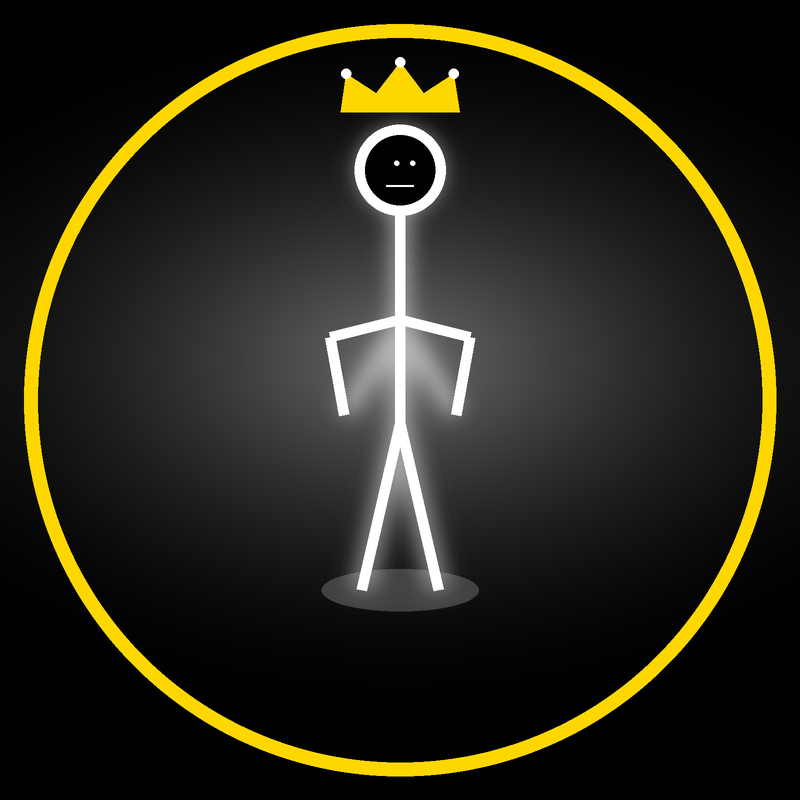
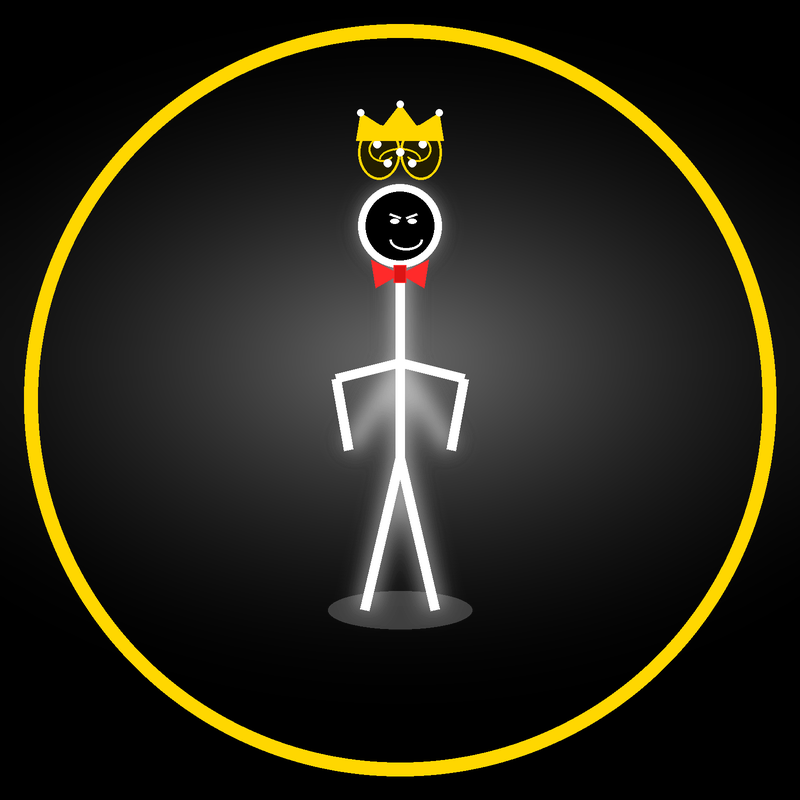
feat(mascot): incorpora especificações oficiais do Sr. Palito (Mr. Stick)

Changed region(s): [[0.4062, 0.0625, 0.5938, 0.8125]]

diff --git a/src/stickman_renderer.py b/src/stickman_renderer.py
@@ -55,12 +55,13 @@ class Fig:
     y: float  # Ground/feet y coordinate
     scale: float = 1.0
     pose: str = "confident"  # confident, slouched, shouting, thinking, pointing, arms_wide, offer_left, cross, walking
-    expression: str = "calm"  # smile, fake_smile, smirk, angry, worried, calm, neutral
+    expression: str = "smirk"  # smile, fake_smile, smirk, angry, worried, calm, neutral
     color: Tuple[int, int, int] = COLOR_WHITE
     glow_color: Optional[Tuple[int, int, int, int]] = (255, 255, 255, 90)
     facing: int = 1  # 1: right, -1: left
-    head_accessory: Optional[str] = None  # e.g. "crown"
+    head_accessory: Optional[str] = None  # e.g. "crown", "brain"
     body_accessory: Optional[str] = None  # e.g. "xmark", "scissors", "mirror", "phone", "lightning_eye"
+    is_sr_palito: bool = False  # Mascote oficial Sr. Palito (Mr. Stick)
 
 @dataclass
 class Accessory:
@@ -314,15 +315,29 @@ class StickmanRenderer:
             draw_fig.line([chest_x, chest_y, left_hand[0], left_hand[1]], fill=c, width=stroke_w)
             draw_fig.line([chest_x, chest_y, right_hand[0], right_hand[1]], fill=c, width=stroke_w)
 
-        # Head (filled black with thick glowing stroke)
-        draw_fig.ellipse([head_x - head_r, head_y - head_r, head_x + head_r, head_y + head_r], fill=(0, 0, 0, 255), outline=c, width=stroke_w)
-        
-        # Expressive face
-        self.draw_face(draw_fig, head_x, head_y, head_r, fig.expression, f, c)
-
-        # Head Accessory (e.g. Floating Crown)
-        if fig.head_accessory == "crown":
-            self.draw_crown(draw_fig, head_x, head_y - head_r - 18 * scale, scale)
+        # Head (solid white head with sleek black inner facial area for Sr. Palito, or thick stroke outline)
+        if fig.is_sr_palito:
+            # 1. Perfectly round solid white head
+            draw_fig.ellipse([head_x - head_r, head_y - head_r, head_x + head_r, head_y + head_r], fill=(255, 255, 255, 255))
+            # 2. Sleek black facial area inside
+            inner_r = head_r * 0.82
+            draw_fig.ellipse([head_x - inner_r, head_y - inner_r, head_x + inner_r, head_y + inner_r], fill=(0, 0, 0, 255))
+            # 3. Sr. Palito face: intensely expressive glowing white eyes, sharp mischievous eyebrows, calculating smirk
+            self.draw_sr_palito_face(draw_fig, head_x, head_y, head_r, f)
+            # 4. Razor-sharp crimson red bow tie (#FF2A2A) at neck
+            self.draw_bow_tie(draw_fig, neck_x, neck_y + 4 * scale, scale)
+            # 5. Magnificent holographic golden brain (#FFD700) with crown floating directly above head
+            brain_cy = head_y - head_r - 20 * scale
+            self.draw_golden_brain(draw_fig, head_x, brain_cy, scale)
+            self.draw_crown(draw_fig, head_x, brain_cy - 16 * scale, scale * 0.8)
+        else:
+            # Standard stickman head (filled black with thick glowing stroke)
+            draw_fig.ellipse([head_x - head_r, head_y - head_r, head_x + head_r, head_y + head_r], fill=(0, 0, 0, 255), outline=c, width=stroke_w)
+            # Expressive face
+            self.draw_face(draw_fig, head_x, head_y, head_r, fig.expression, f, c)
+            # Head Accessory (e.g. Floating Crown)
+            if fig.head_accessory == "crown":
+                self.draw_crown(draw_fig, head_x, head_y - head_r - 18 * scale, scale)
 
         # Body Accessory
         if fig.body_accessory == "xmark":
@@ -340,6 +355,60 @@ class StickmanRenderer:
             self.draw_lightning_eye(draw_fig, head_x, head_y, f, scale)
 
         img.paste(fig_layer, (0, 0), fig_layer)
+
+    def draw_sr_palito_face(self, draw: ImageDraw.ImageDraw, hx: float, hy: float, hr: float, facing: int):
+        """Intensely expressive white glowing eyes, sharp mischievous eyebrows and confident calculating smirk."""
+        f = facing
+        eye_y = hy - hr * 0.12
+        eye_spacing = hr * 0.42
+        eye_w = max(3, int(4.5 * self.sf))
+        eye_h = max(2, int(2.5 * self.sf))
+
+        left_eye_x = hx - eye_spacing * 0.5 + f * hr * 0.08
+        right_eye_x = hx + eye_spacing * 0.5 + f * hr * 0.08
+        mouth_y = hy + hr * 0.38
+
+        # Sharp mischievous diagonal eyebrows (angled aggressively inward)
+        eb_w = int(2.5 * self.sf)
+        draw.line([left_eye_x - 5 * self.sf, eye_y - 7 * self.sf, left_eye_x + 6 * self.sf, eye_y - 3 * self.sf], fill=COLOR_WHITE, width=eb_w)
+        draw.line([right_eye_x - 6 * self.sf, eye_y - 3 * self.sf, right_eye_x + 5 * self.sf, eye_y - 7 * self.sf], fill=COLOR_WHITE, width=eb_w)
+
+        # Intensely glowing white eyes (slightly almond shaped)
+        draw.ellipse([left_eye_x - eye_w, eye_y - eye_h, left_eye_x + eye_w, eye_y + eye_h], fill=COLOR_WHITE)
+        draw.ellipse([right_eye_x - eye_w, eye_y - eye_h, right_eye_x + eye_w, eye_y + eye_h], fill=COLOR_WHITE)
+
+        # Confident calculating smirk (raised cunningly on one side)
+        mx0 = hx - hr * 0.25 if f == 1 else hx - hr * 0.1
+        mx1 = hx + hr * 0.55 if f == 1 else hx + hr * 0.35
+        draw.arc([min(mx0, mx1), mouth_y - hr * 0.3, max(mx0, mx1), mouth_y + hr * 0.2], start=0, end=180, fill=COLOR_WHITE, width=int(2.5 * self.sf))
+
+    def draw_bow_tie(self, draw: ImageDraw.ImageDraw, nx: float, ny: float, scale: float):
+        """Razor-sharp crimson red bow tie (#FF2A2A) with center knot."""
+        bw = 18 * scale
+        bh = 9 * scale
+        # Left wing razor triangle
+        draw.polygon([(nx, ny), (nx - bw, ny - bh), (nx - bw * 0.85, ny + bh)], fill=COLOR_RED)
+        # Right wing razor triangle
+        draw.polygon([(nx, ny), (nx + bw, ny - bh), (nx + bw * 0.85, ny + bh)], fill=COLOR_RED)
+        # Center geometric knot with subtle highlight
+        kw = 4 * scale
+        draw.rectangle([nx - kw, ny - bh * 0.6, nx + kw, ny + bh * 0.6], fill=(220, 20, 20), outline=COLOR_RED, width=int(self.sf))
+
+    def draw_golden_brain(self, draw: ImageDraw.ImageDraw, cx: float, cy: float, scale: float):
+        """Magnificent holographic golden brain (#FFD700) with intricate glowing neural connections."""
+        bw = 26 * scale
+        bh = 17 * scale
+        # Golden neural brain lobes
+        draw.ellipse([cx - bw, cy - bh, cx, cy + bh], fill=(35, 30, 0), outline=COLOR_GOLD, width=int(2.5 * self.sf))
+        draw.ellipse([cx, cy - bh, cx + bw, cy + bh], fill=(35, 30, 0), outline=COLOR_GOLD, width=int(2.5 * self.sf))
+        # Intricate gyri neural connection arcs
+        draw.arc([cx - bw * 0.75, cy - bh * 0.55, cx - bw * 0.1, cy + bh * 0.35], start=40, end=280, fill=COLOR_GOLD, width=int(2.0 * self.sf))
+        draw.arc([cx + bw * 0.1, cy - bh * 0.55, cx + bw * 0.75, cy + bh * 0.35], start=260, end=140, fill=COLOR_GOLD, width=int(2.0 * self.sf))
+        draw.arc([cx - bw * 0.5, cy - bh * 0.15, cx + bw * 0.5, cy + bh * 0.65], start=180, end=360, fill=COLOR_GOLD, width=int(2.0 * self.sf))
+        # Synaptic glowing sparks
+        sr = max(1, int(2.5 * scale))
+        for px, py in [(cx - bw * 0.55, cy - bh * 0.3), (cx + bw * 0.55, cy - bh * 0.3), (cx, cy), (cx - bw * 0.3, cy + bh * 0.4), (cx + bw * 0.3, cy + bh * 0.4)]:
+            draw.ellipse([px - sr, py - sr, px + sr, py + sr], fill=COLOR_WHITE)
 
     def draw_crown(self, draw: ImageDraw.ImageDraw, cx: float, cy: float, scale: float):
         """Floating 3-pointed golden crown with jewels."""
@@ -529,21 +598,21 @@ class StickmanRenderer:
         accessories = []
 
         if "vs" in visual_type or "curvado" in visual_type:
-            # Day 1 style: Slouched with X vs confident with Crown
+            # Day 1 style: Slouched with X vs Sr. Palito confident
             fig_errado = Fig(
                 x=320, y=520, scale=1.35, pose="slouched", expression="fake_smile",
                 color=COLOR_GRAY, body_accessory="xmark", facing=1
             )
             fig_certo = Fig(
-                x=960, y=520, scale=1.35, pose="confident", expression="calm",
-                color=COLOR_WHITE, head_accessory="crown", facing=-1
+                x=960, y=520, scale=1.35, pose="confident", expression="smirk",
+                color=COLOR_WHITE, head_accessory="crown", is_sr_palito=True, facing=-1
             )
             figures = [fig_errado, fig_certo]
         elif "pés" in visual_type or "pes" in visual_type:
             # Day 2 style: liar smiling with arrow pointing to feet
             fig = Fig(
                 x=640, y=520, scale=1.4, pose="confident", expression="smirk",
-                color=COLOR_WHITE, facing=1
+                color=COLOR_WHITE, is_sr_palito=True, facing=1
             )
             figures = [fig]
             accessories.append(Accessory(kind="arrow", x1=400, y1=450, x2=580, y2=520, color=COLOR_GOLD))
@@ -554,8 +623,8 @@ class StickmanRenderer:
                 color=COLOR_RED, facing=1
             )
             fig2 = Fig(
-                x=950, y=520, scale=1.35, pose="confident", expression="calm",
-                color=COLOR_WHITE, body_accessory="mirror", facing=-1
+                x=950, y=520, scale=1.35, pose="confident", expression="smirk",
+                color=COLOR_WHITE, body_accessory="mirror", is_sr_palito=True, facing=-1
             )
             figures = [fig1, fig2]
         elif "tesoura" in visual_type or "amigo" in visual_type:
@@ -565,32 +634,32 @@ class StickmanRenderer:
                 color=COLOR_GRAY, body_accessory="scissors", facing=1
             )
             fig2 = Fig(
-                x=860, y=520, scale=1.35, pose="offer_left", expression="calm",
-                color=COLOR_WHITE, facing=-1
+                x=860, y=520, scale=1.35, pose="offer_left", expression="smirk",
+                color=COLOR_WHITE, is_sr_palito=True, facing=-1
             )
             figures = [fig1, fig2]
         elif "vácuo" in visual_type or "vacuo" in visual_type or "correndo" in visual_type:
-            # Day 5 style: figures chasing 1 confident figure
+            # Day 5 style: figures chasing Sr. Palito
             f1 = Fig(x=200, y=530, scale=1.0, pose="walking", expression="worried", color=COLOR_GRAY, facing=1)
             f2 = Fig(x=340, y=530, scale=1.0, pose="walking", expression="worried", color=COLOR_GRAY, facing=1)
             f3 = Fig(x=480, y=530, scale=1.0, pose="walking", expression="worried", color=COLOR_GRAY, facing=1)
-            leader = Fig(x=950, y=520, scale=1.35, pose="confident", expression="calm", color=COLOR_WHITE, head_accessory="crown", facing=1)
+            leader = Fig(x=950, y=520, scale=1.35, pose="confident", expression="smirk", color=COLOR_WHITE, head_accessory="crown", is_sr_palito=True, facing=1)
             figures = [f1, f2, f3, leader]
-        elif "espelho" in visual_type or "fio" in visual_type:
-            # Day 6 style: 2 identical figures synchronized with gold dotted line
-            fig1 = Fig(x=360, y=520, scale=1.35, pose="confident", expression="calm", color=COLOR_WHITE, facing=1)
-            fig2 = Fig(x=920, y=520, scale=1.35, pose="confident", expression="calm", color=COLOR_WHITE, facing=-1)
+        elif "fio" in visual_type:
+            # Day 6 style: Sr. Palito with synchronized figure
+            fig1 = Fig(x=360, y=520, scale=1.35, pose="confident", expression="smirk", color=COLOR_WHITE, is_sr_palito=True, facing=1)
+            fig2 = Fig(x=920, y=520, scale=1.35, pose="confident", expression="smirk", color=COLOR_WHITE, is_sr_palito=True, facing=-1)
             figures = [fig1, fig2]
             accessories.append(Accessory(kind="dotted", x1=360, y1=380, x2=920, y2=380, color=COLOR_GOLD))
         elif "marionete" in visual_type or "fios" in visual_type:
-            # Day 7 style: Puppet cross with stickman cutting threads
-            hero = Fig(x=640, y=520, scale=1.4, pose="confident", expression="calm", color=COLOR_WHITE, body_accessory="scissors", facing=1)
+            # Day 7 style: Puppet cross with Sr. Palito cutting threads
+            hero = Fig(x=640, y=520, scale=1.4, pose="confident", expression="smirk", color=COLOR_WHITE, body_accessory="scissors", is_sr_palito=True, facing=1)
             figures = [hero]
             accessories.append(Accessory(kind="marionette", x1=400, y1=80, x2=880, y2=450, color=COLOR_RED))
         else:
             # Default strong contrast
             fig1 = Fig(x=360, y=520, scale=1.35, pose="slouched", expression="worried", color=COLOR_GRAY, facing=1)
-            fig2 = Fig(x=920, y=520, scale=1.35, pose="confident", expression="calm", color=COLOR_WHITE, head_accessory="crown", facing=-1)
+            fig2 = Fig(x=920, y=520, scale=1.35, pose="confident", expression="smirk", color=COLOR_WHITE, head_accessory="crown", is_sr_palito=True, facing=-1)
             figures = [fig1, fig2]
 
         # Spotlight behind center

diff --git a/src/character_prompt.py b/src/character_prompt.py
@@ -1,0 +1,35 @@
+"""src/character_prompt.py - Definição e gerador do prompt oficial do Sr. Palito (Mr. Stick)."""
+
+OFFICIAL_SR_PALITO_PROMPT_TEMPLATE = """Create the exact same recurring mascot character, known as "Mr. Stick" (Sr. Palito), maintaining consistent character design in every generation.
+
+A hyper-charismatic minimalist stick figure mascot with a perfectly round solid white head, sleek black facial area, intensely expressive white glowing eyes, sharp mischievous eyebrows and a confident, calculating smirk.
+
+His body is a minimalist stick figure with thick, crisp, glowing white neon outlines and a premium futuristic appearance.
+
+He always wears a razor-sharp crimson red bow tie (#FF2A2A).
+
+Floating directly above his head is a magnificent holographic golden brain (#FFD700), with intricate glowing neural connections, crowned by a small, elegant, sharp-pointed golden royal crown.
+
+His personality is intelligent, strategic, charismatic, dominant, mysterious and slightly mischievous.
+
+Visual identity:
+- Pure black background (#000000).
+- Electric white neon outlines.
+- Crimson red and electric gold rim lighting.
+- High contrast, cinematic lighting.
+- Premium cyberpunk minimalist aesthetic.
+- Clean, polished, recognizable silhouette.
+- Consistent proportions and facial features.
+
+Character consistency is extremely important: Never change his head shape, eyes, facial expression style, bow tie, golden brain or crown. He must always be recognizable as the exact same character.
+
+Pose and body language: {action_or_pose}.
+
+Full-body character, centered composition, professional digital illustration, ultra-detailed, 4K quality.
+
+No text, no letters, no watermark, no additional characters."""
+
+
+def get_sr_palito_prompt(action_or_pose: str = "standing confident with hands on hips, looking directly at the viewer") -> str:
+    """Retorna o prompt oficial e padronizado do Sr. Palito para geração de imagem ou instrução de IA."""
+    return OFFICIAL_SR_PALITO_PROMPT_TEMPLATE.format(action_or_pose=action_or_pose)

diff --git a/src/generate_branding.py b/src/generate_branding.py
@@ -29,15 +29,16 @@ def generate_avatar(out_path: str) -> str:
     canvas = renderer.create_canvas(w, h, spotlight=(0.5, 0.45, 0.45))
     sf = renderer.sf
 
-    # Stickman centralizado
+    # Sr. Palito centralizado
     fig = Fig(
         x=400,
-        y=590,
-        scale=1.75,
+        y=610,
+        scale=1.6,
         pose="confident",
-        expression="calm",
+        expression="smirk",
         color=COLOR_WHITE,
         head_accessory="crown",
+        is_sr_palito=True,
         facing=1
     )
     renderer.draw_figure(canvas, fig)
@@ -75,15 +76,16 @@ def generate_banner(out_path: str) -> str:
     safe_y2 = safe_y1 + safe_h   # 931
     safe_cy = (safe_y1 + safe_y2) // 2
 
-    # Dois stickmans nas laterais da safe area
+    # Dois stickmans nas laterais da safe area (Sr. Palito à esquerda)
     fig_left = Fig(
         x=safe_x1 + 180,
         y=safe_y2 - 30,
-        scale=1.2,
+        scale=1.15,
         pose="confident",
-        expression="calm",
+        expression="smirk",
         color=COLOR_WHITE,
         head_accessory="crown",
+        is_sr_palito=True,
         facing=1
     )
     fig_right = Fig(

diff --git a/src/run_day.py b/src/run_day.py
@@ -241,9 +241,10 @@ def run_pipeline_for_day(day_number: int, dry_run: bool = False) -> bool:
             y=760,
             scale=1.4,
             pose=s.get("fig_pose", "confident"),
-            expression=s.get("fig_expression", "calm"),
+            expression=s.get("fig_expression", "smirk"),
             color=COLOR_WHITE,
-            head_accessory="crown" if s.get("fig_pose") == "confident" else None,
+            head_accessory="crown",
+            is_sr_palito=True,
             facing=1
         )
         img = renderer.render_scene(

diff --git a/src/shorts_generator.py b/src/shorts_generator.py
@@ -67,6 +67,7 @@ class ShortsGenerator:
             color=color,
             head_accessory="crown" if color == COLOR_WHITE else None,
             body_accessory=accessory_kind,
+            is_sr_palito=(color == COLOR_WHITE),
             facing=1
         )
         accessories = []

diff --git a/config/character_prompt.md b/config/character_prompt.md
@@ -1,0 +1,30 @@
+# SR. PALITO — PROMPT OFICIAL DO PERSONAGEM
+
+Create the exact same recurring mascot character, known as "Mr. Stick" (Sr. Palito), maintaining consistent character design in every generation.
+
+A hyper-charismatic minimalist stick figure mascot with a perfectly round solid white head, sleek black facial area, intensely expressive white glowing eyes, sharp mischievous eyebrows and a confident, calculating smirk.
+
+His body is a minimalist stick figure with thick, crisp, glowing white neon outlines and a premium futuristic appearance.
+
+He always wears a razor-sharp crimson red bow tie (#FF2A2A).
+
+Floating directly above his head is a magnificent holographic golden brain (#FFD700), with intricate glowing neural connections, crowned by a small, elegant, sharp-pointed golden royal crown.
+
+His personality is intelligent, strategic, charismatic, dominant, mysterious and slightly mischievous.
+
+**Visual identity:**
+- Pure black background (#000000).
+- Electric white neon outlines.
+- Crimson red and electric gold rim lighting.
+- High contrast, cinematic lighting.
+- Premium cyberpunk minimalist aesthetic.
+- Clean, polished, recognizable silhouette.
+- Consistent proportions and facial features.
+
+**Character consistency is extremely important:** Never change his head shape, eyes, facial expression style, bow tie, golden brain or crown. He must always be recognizable as the exact same character.
+
+Pose and body language: [INSERT DESIRED POSE OR ACTION].
+
+Full-body character, centered composition, professional digital illustration, ultra-detailed, 4K quality.
+
+No text, no letters, no watermark, no additional characters.
